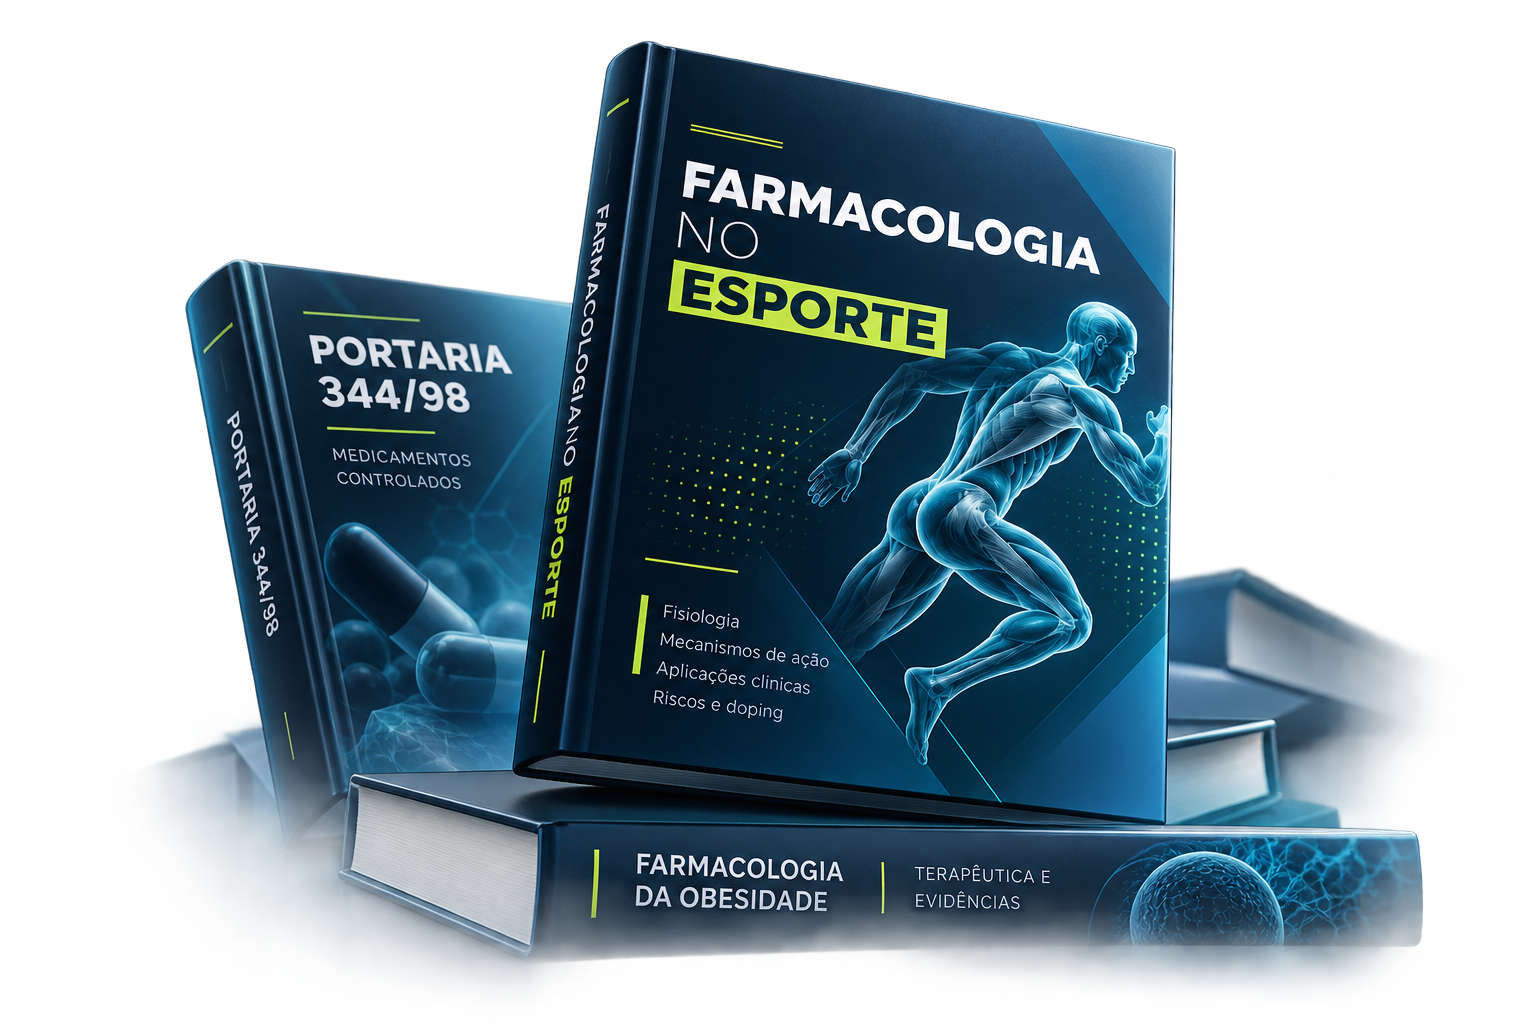
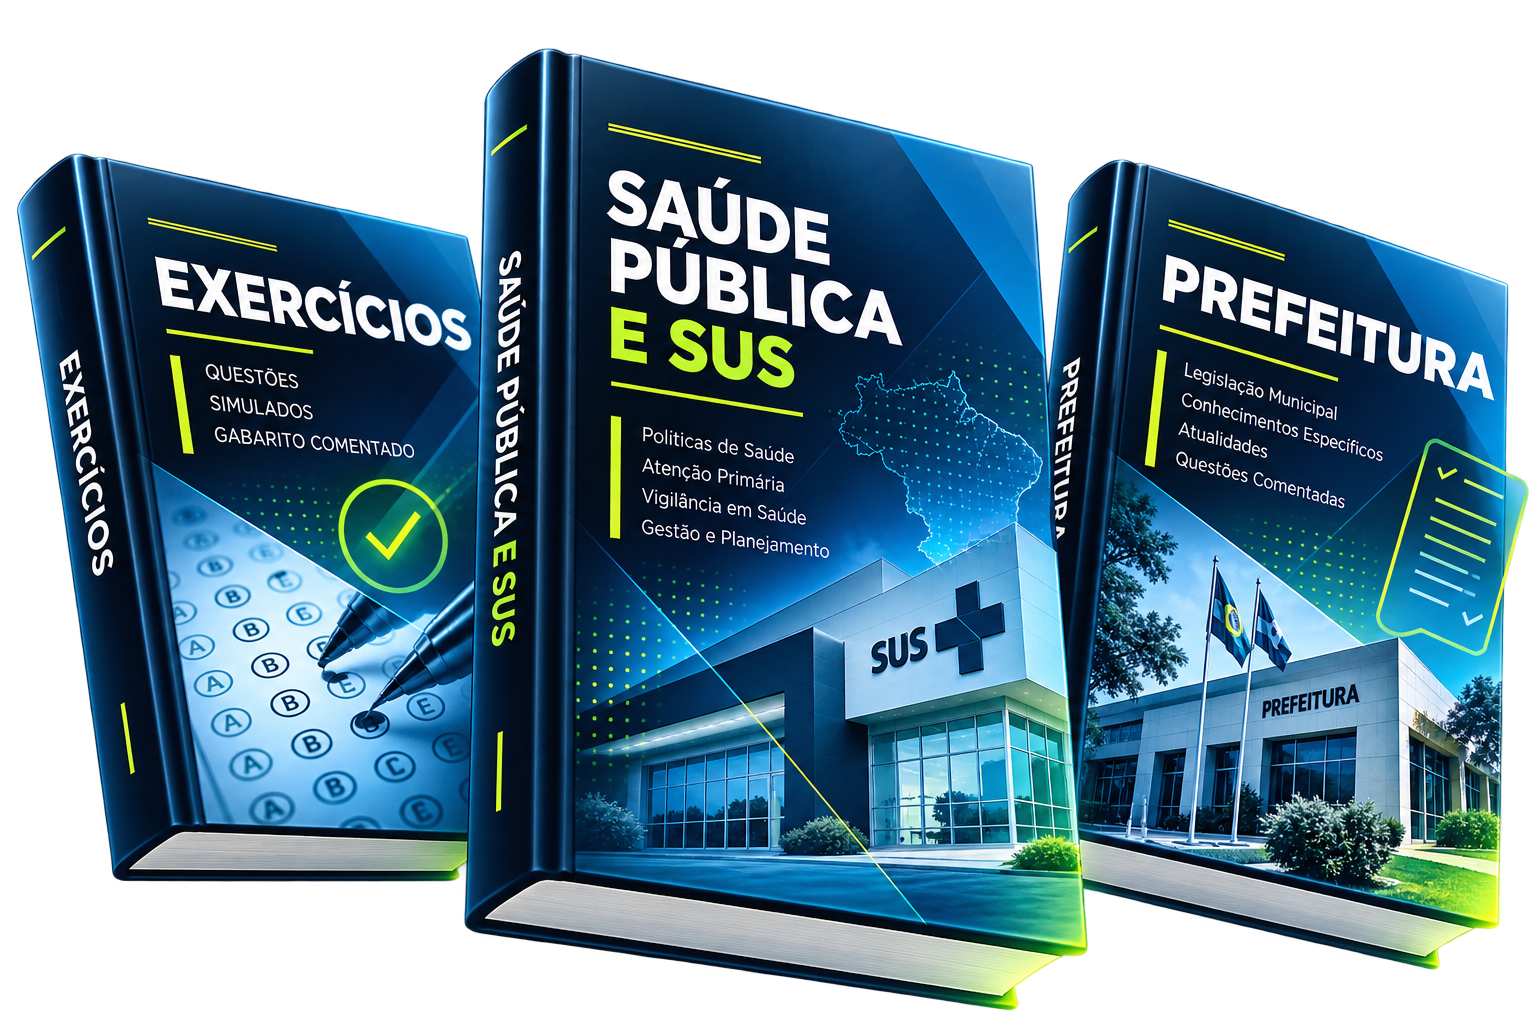
Pagina mentoria finalizada

diff --git a/packages/web/src/web/lib/mentorship-config.ts b/packages/web/src/web/lib/mentorship-config.ts
@@ -1,5 +1,5 @@
-/** Add the official Hotmart checkout URL here when it is available. */
-export const MENTORSHIP_CHECKOUT_URL = "";
+/** Official Hotmart checkout URL for the mentorship. */
+export const MENTORSHIP_CHECKOUT_URL = "https://go.hotmart.com/J108268247C?ap=b960";
 
 export function getMentorshipCheckoutUrl(checkoutUrl: string, search: string): string {
   if (!checkoutUrl) return "#investimento";
